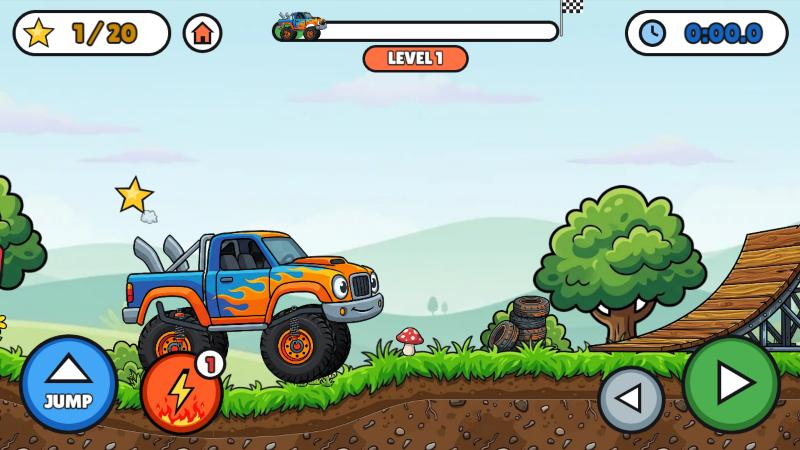
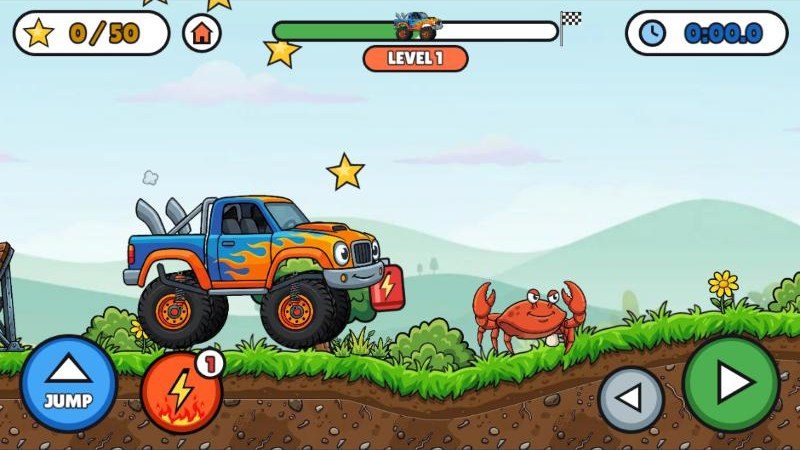
Four levels, one per look, each with 50 stars and the same length
Level 1 meadow (ramps, no pits), level 2 spooky (2 pits, each after a
ramp), level 3 desert and level 4 snow (1 pit after a ramp, 2 to jump).
Every level is 31,700 px long, the length of the old desert level.

Pits are now set per level as rampPits and jumpPits, so a level can mix
both. Saved progress moves to new keys: how far Ben got carries over by
look (old 1-2 -> 1, 3-4 -> 2, 5 -> 3, 6 -> 4); best times start fresh.
README screenshots retaken as levels 1-3.

diff --git a/src/level.js b/src/level.js
@@ -1,4 +1,4 @@
-// The 6 levels. Everything is measured in game pixels; the screen is 1280x720.
+// The 4 levels, one per look. Everything is measured in game pixels; the screen is 1280x720.
 //
 // Each level's layout (where the ramps, box stacks and pits go, and the
 // scenery) is random but the same every time you play that level (seeded by
@@ -8,18 +8,18 @@
 
 import { RAMP_ART } from './rampProfile.js';
 
-const L1 = 13000; // level 1 is about 2/3 the length of the old single level
-const GROW = 1.25; // each level after is 25% longer
+const LENGTH = 31700; // every level is this long (about 1 minute 20 of driving)
 
 export const LEVELS = [
-  // stars: exactly this many. pits: holes you must jump; pitRamps: a ramp right before each pit.
+  // stars: exactly this many. ramps: jumps on their own.
+  // rampPits: pits with a ramp right before them (the ramp flies you over).
+  // jumpPits: pits with no ramp, so you jump them yourself.
+  // crabs: enemies (crabs, spiders, rattlesnakes or snow spiders, by look), at most this many.
   // theme: 'meadow' (sunny), 'spooky' (night graveyard), 'desert' (canyon) or 'snow' (mountains) look.
-  { stars: 20, length: L1, ramps: 3, stacks: 3, pits: 0, pitRamps: false, crabs: 1, theme: 'meadow' },
-  { stars: 30, length: L1 * GROW, ramps: 4, stacks: 4, pits: 0, pitRamps: false, crabs: 2, theme: 'meadow' },
-  { stars: 40, length: L1 * GROW ** 2, ramps: 4, stacks: 5, pits: 1, pitRamps: true, crabs: 2, theme: 'spooky' },
-  { stars: 50, length: L1 * GROW ** 3, ramps: 5, stacks: 6, pits: 2, pitRamps: true, crabs: 3, theme: 'spooky' },
-  { stars: 60, length: L1 * GROW ** 4, ramps: 6, stacks: 7, pits: 3, pitRamps: false, crabs: 3, theme: 'desert' },
-  { stars: 70, length: L1 * GROW ** 5, ramps: 7, stacks: 8, pits: 3, pitRamps: true, crabs: 3, theme: 'snow' },
+  { stars: 50, length: LENGTH, ramps: 6, stacks: 7, rampPits: 0, jumpPits: 0, crabs: 2, theme: 'meadow' },
+  { stars: 50, length: LENGTH, ramps: 6, stacks: 7, rampPits: 2, jumpPits: 0, crabs: 3, theme: 'spooky' },
+  { stars: 50, length: LENGTH, ramps: 6, stacks: 7, rampPits: 1, jumpPits: 2, crabs: 3, theme: 'desert' },
+  { stars: 50, length: LENGTH, ramps: 6, stacks: 7, rampPits: 1, jumpPits: 2, crabs: 3, theme: 'snow' },
 ];
 
 export const BOX = 80;
@@ -75,15 +75,17 @@ function layout(def, length, finishX, rand) {
   const kinds = [
     ...Array(def.ramps).fill('ramp'),
     ...Array(def.stacks).fill('stack'),
-    ...Array(def.pits).fill('pit'),
+    ...Array(def.rampPits).fill('rampPit'),
+    ...Array(def.jumpPits).fill('jumpPit'),
   ];
+  const isPit = (k) => k === 'rampPit' || k === 'jumpPit';
   // shuffle, but never start with a pit and never put two pits side by side
   for (let tries = 0; tries < 200; tries++) {
     for (let i = kinds.length - 1; i > 0; i--) {
       const j = Math.floor(rand() * (i + 1));
       [kinds[i], kinds[j]] = [kinds[j], kinds[i]];
     }
-    const ok = kinds[0] !== 'pit' && kinds.every((k, i) => !(k === 'pit' && kinds[i + 1] === 'pit'));
+    const ok = !isPit(kinds[0]) && kinds.every((k, i) => !(isPit(k) && isPit(kinds[i + 1])));
     if (ok) break;
   }
 
@@ -102,7 +104,7 @@ function layout(def, length, finishX, rand) {
       stacks.push({ x: mid - 160, rows: STACK_SHAPES[Math.floor(rand() * STACK_SHAPES.length)] });
     } else {
       const pit = { x0: mid - PIT_WIDTH / 2, x1: mid + PIT_WIDTH / 2, ramp: null };
-      if (def.pitRamps) {
+      if (kind === 'rampPit') {
         // a ramp right before the pit sends you flying over it
         const h = 200;
         const backW = RAMP_ART.backX * (h / RAMP_ART.lipHeight);

diff --git a/src/progress.js b/src/progress.js
@@ -4,13 +4,22 @@
 
 import { LEVELS } from './level.js';
 
-const PROGRESS_KEY = 'bmtr.progress';
-const bestKey = (level) => `bmtr.best.l${level}`;
+// "v2": the game went from 6 levels to 4 (one per look), so level numbers mean
+// different levels now. Best times start fresh; how far Ben got carries over.
+const PROGRESS_KEY = 'bmtr.v2.progress';
+const bestKey = (level) => `bmtr.v2.best.l${level}`;
+const OLD_PROGRESS_KEY = 'bmtr.progress';
+const OLD_TO_NEW = [1, 1, 2, 2, 3, 4]; // old levels 1-6 -> the new level with the same look
 
 export function loadProgress() {
   try {
-    const v = parseInt(window.localStorage.getItem(PROGRESS_KEY), 10);
-    return v >= 1 && v <= LEVELS.length ? v : 1;
+    const store = window.localStorage;
+    let v = parseInt(store.getItem(PROGRESS_KEY), 10);
+    if (!(v >= 1)) {
+      const old = parseInt(store.getItem(OLD_PROGRESS_KEY), 10);
+      v = old >= 1 ? OLD_TO_NEW[Math.min(old, OLD_TO_NEW.length) - 1] : 1;
+    }
+    return Math.min(v, LEVELS.length);
   } catch (e) {
     return 1;
   }

diff --git a/src/scenery.js b/src/scenery.js
@@ -1,7 +1,7 @@
 // Drawing the world: the painted backdrop, the dirt and the bendy grass strip.
 // Shared by the title screen and the levels. Each level has a look ("theme"):
-// the sunny meadow (levels 1-2, title screen), the spooky night (levels 3-4),
-// the desert canyon (level 5) and the snowy mountains (level 6).
+// the sunny meadow (level 1, title screen), the spooky night (level 2),
+// the desert canyon (level 3) and the snowy mountains (level 4).
 
 import { GROUND_ART } from './groundArt.js';
 

diff --git a/tools/slice_env.py b/tools/slice_env.py
@@ -236,7 +236,7 @@ def ground_set(src_prefix, out_suffix, snow=False):
 def main():
     OUT.mkdir(parents=True, exist_ok=True)
 
-    # ground sets: meadow (levels 1-2), spooky (3-4), desert (5), snow (6)
+    # ground sets: meadow (level 1), spooky (2), desert (3), snow (4)
     ground = {
         "meadow": ground_set("", ""),
         "spooky": ground_set("spooky_", "_spooky"),
@@ -281,21 +281,21 @@ def main():
         for name, (x0, y0, x1, y1) in boxes.items():
             save(trim(cut_white(src[y0:y1, x0:x1])), f"{name}.png")
 
-    # spooky scenery for levels 3-5. Thin cobwebs and fence bars enclose
+    # spooky scenery for level 2. Thin cobwebs and fence bars enclose
     # little white gaps, so treat even small enclosed white as background.
     for sheet, boxes in (("spooky_decorations.png", SPOOKY_DECOR), ("spooky_props.webp", SPOOKY_PROPS)):
         src = np.array(Image.open(SRC / sheet).convert("RGB"))
         for name, (x0, y0, x1, y1) in boxes.items():
             save(trim(cut_white(src[y0:y1, x0:x1], hole_min=150)), f"{name}.png")
 
-    # desert scenery for level 5 (the tumbleweed is all little gaps)
+    # desert scenery for level 3 (the tumbleweed is all little gaps)
     for sheet, boxes in (("desert_decorations.webp", DESERT_DECOR), ("desert_props.webp", DESERT_PROPS)):
         src = np.array(Image.open(SRC / sheet).convert("RGB"))
         for name, (x0, y0, x1, y1) in boxes.items():
             hole = 30 if name == "tumbleweed" else 150
             save(trim(cut_white(src[y0:y1, x0:x1], hole_min=hole)), f"{name}.png")
 
-    # snow scenery for level 6 (snow is nearly white, so cut in snow mode;
+    # snow scenery for level 4 (snow is nearly white, so cut in snow mode;
     # the gaps in the fence and under the gate are pure white and go)
     for sheet, boxes in (("snow_decorations.png", SNOW_DECOR), ("snow_props.png", SNOW_PROPS)):
         src = load(sheet)
@@ -304,7 +304,7 @@ def main():
             hole = 50000 if name == "snowballs" else 400
             save(trim(cut_white(src[y0:y1, x0:x1], hole_min=hole, snow=True)), f"{name}.png")
 
-    # snow spider enemy (level 6): snowball body, four icy legs, squished
+    # snow spider enemy (level 4): snowball body, four icy legs, squished
     src = load("snow_spider.png")
     for name, (x0, y0, x1, y1, largest) in SNOW_SPIDER.items():
         part = cut_white(src[y0:y1, x0:x1], hole_min=400, snow=True)

diff --git a/README.md b/README.md
@@ -11,9 +11,9 @@ stars on the way to the finish gate. No game over: a crash or a fall into a pit 
 Open that link in any browser: laptop, tablet or phone, from anywhere. There's nothing to install, and
 it's always the latest version.
 
-| Level 1: the meadow | Level 3: the spooky graveyard | Level 5: the desert canyon |
+| Level 1: the meadow | Level 2: the spooky graveyard | Level 3: the desert canyon |
 |---|---|---|
-| ![Level 1: the monster truck parked on the grass in the sunny meadow, with a tire stack and a wooden ramp ahead](docs/screenshots/level1.jpg) | ![Level 3: the truck parked in the graveyard at night, with a spider dangling ahead among the stars](docs/screenshots/level3.jpg) | ![Level 5: the truck parked in the desert canyon at sunset, with a rattlesnake rearing up ahead beyond a row of stars](docs/screenshots/level5.jpg) |
+| ![Level 1: the monster truck parked on the grass in the sunny meadow, with a crab ahead](docs/screenshots/level1.jpg) | ![Level 2: the truck parked in the graveyard under a full moon, with a spider dangling ahead](docs/screenshots/level2.jpg) | ![Level 3: the truck parked in the desert canyon at sunset, among dinosaur skulls, with a rattlesnake ahead](docs/screenshots/level3.jpg) |
 
 ## Playing on a tablet
 
@@ -36,22 +36,21 @@ it's always the latest version.
 
 ## How it plays
 
-- **6 levels**, each longer than the last, with 20, 30, 40, 50, 60 and 70 stars. The level you're on shows
+- **4 levels**, one for each look, each with 50 stars and the same length. The level you're on shows
   under the progress bar. Finishing a level unlocks the next (**NEXT LEVEL**); the title screen offers
   **NEW GAME** or carries on from the level you reached, and the 🏠 button goes back to the title.
 - **Music**: an original 16-bit (SNES-style) tune for each look - bouncy for the meadow, music-box
   spooky for the graveyard, a cowboy trot for the desert, a jingly sleigh ride for the snow - made
-  in code (`src/music.js`). It always
-  plays during a level; the title screen is quiet, and the music starts again with the next level.
-- **Four looks**: levels 1–2 are a sunny meadow; levels 3–4 are a spooky graveyard at night (moon,
-  tombstones, pumpkins, a pumpkin arch at the finish); level 5 is a desert canyon at sunset (cactuses,
-  a T-rex skull, fossils in the dirt, a canyon arch at the finish); level 6 is snowy mountains with snow
+  in code (`src/music.js`). It always plays during a level; the title screen is quiet, and the music starts again with the next level.
+- **Four looks**: level 1 is a sunny meadow; level 2 is a spooky graveyard at night (moon,
+  tombstones, pumpkins, a pumpkin arch at the finish); level 3 is a desert canyon at sunset (cactuses,
+  a T-rex skull, fossils in the dirt, a canyon arch at the finish); level 4 is snowy mountains with snow
   falling (snowy pines, a frozen log, ice crystals, snowball piles, an icy arch at the finish). Set per
   level with `theme` in `src/level.js`.
-- **Pits** (as wide as the truck): level 3 has 1 and level 4 has 2, each with a ramp right before it to
-  fly over; level 5 has 3 with no ramps, so you jump yourself (a little arc of stars shows where);
-  level 6 has 3, each with a ramp.
-  Fall in and you start the level again.
+- **Ramps** on every level launch you into the air.
+- **Pits** (as wide as the truck): level 1 has none. Level 2 has 2, each with a ramp right before it
+  that flies you over. Levels 3 and 4 have 3: 1 with a ramp, and 2 with no ramp, so you jump those
+  yourself (a little arc of stars shows where). Fall in and you start the level again.
 - **Nitro**: you start with 1 charge and can carry up to 3 (the number on the ⚡ button). Each boost drives you
   forward at nearly double speed for 3 seconds. There are always 3 red nitro canisters on the track (one in each third), each giving a charge;
   some float high, so you have to jump for them.
@@ -59,10 +58,10 @@ it's always the latest version.
   (keep holding it to reverse).
 - **Crabs** (up to 3 per level) scuttle back and forth. Jump and land on one to squish it (and bounce
   high); drive into one and KA-BOOM, the truck blows apart (see below).
-- **Spiders** replace the crabs on the spooky levels (3–4): they dangle on a thread, dropping down and
+- **Spiders** replace the crabs on the spooky level (2): they dangle on a thread, dropping down and
   climbing back up. Drive under one while it's high, jump over it when it's low, or land on it to squish it.
-- **Rattlesnakes** replace the crabs on the desert level (5): they slither back and forth, rattling.
-- **Snow spiders** replace the crabs on the snow level (6): grumpy snowballs on four icy legs that
+- **Rattlesnakes** replace the crabs on the desert level (3): they slither back and forth, rattling.
+- **Snow spiders** replace the crabs on the snow level (4): grumpy snowballs on four icy legs that
   scuttle back and forth.
 - Any enemy you touch while in the air and above its middle gets squished, so a jump in time always
   works.
@@ -102,7 +101,7 @@ src/main.js             game setup
 src/scenes/BootScene.js loads the truck art, draws stars/boxes/buttons
 src/scenes/TitleScene.js title screen: GO! / NEW GAME / keep going
 src/scenes/GameScene.js the level: driving, jumping, boxes, stars, finish
-src/level.js            the 6 levels: ramps, box stacks, pits, stars, canisters, crabs, scenery
+src/level.js            the 4 levels: ramps, box stacks, pits, stars, canisters, crabs, scenery
 src/progress.js         level reached and best time per level (saved in the browser)
 src/scenery.js          backdrop, tiled dirt and the bendy grass strip, per theme (meadow / spooky / desert)
 src/groundArt.js        grass strip sizes per theme (generated from the art)
@@ -128,7 +127,7 @@ docs/screenshots/       screenshots used in this README
 ## Tweaking
 
 - **Levels**: the `LEVELS` table at the top of `src/level.js` sets each level's stars (exact count),
-  length, number of ramps, box stacks, pits (and whether they have ramps) and crabs. Each level's
+  length, number of ramps, box stacks, pits with a ramp (`rampPits`), pits to jump (`jumpPits`) and crabs. Each level's
   layout is random but the same every time you play it; stars, canisters and crabs move every play.
 - **How the truck feels**: the constants at the top of `src/scenes/GameScene.js`
   (`MAX_SPEED`, `JUMP_SPEED`, `GRAVITY`, `RAMP_BOOST`, suspension `SPRING`/`DAMPING`, and the `NITRO_*` settings).
